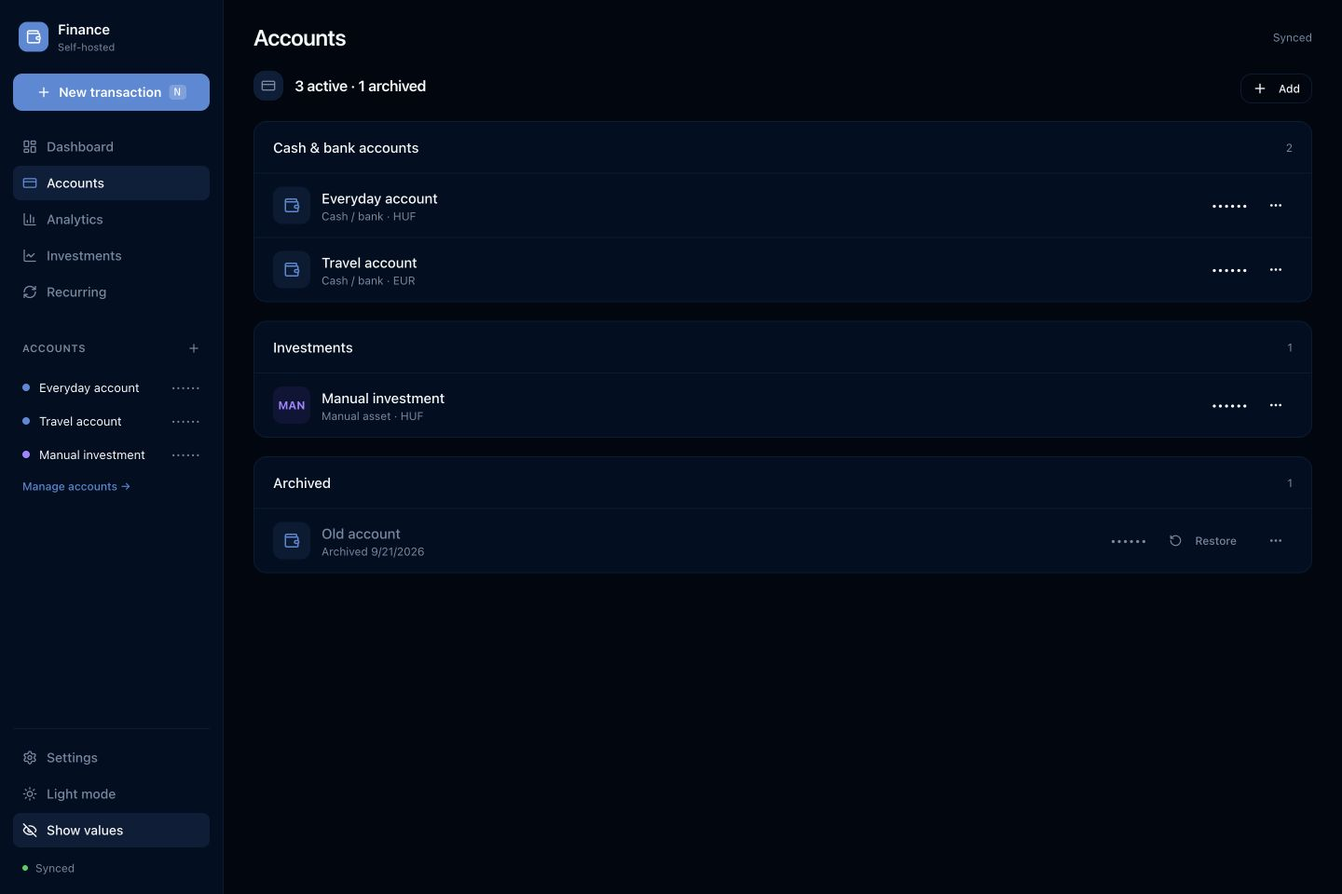
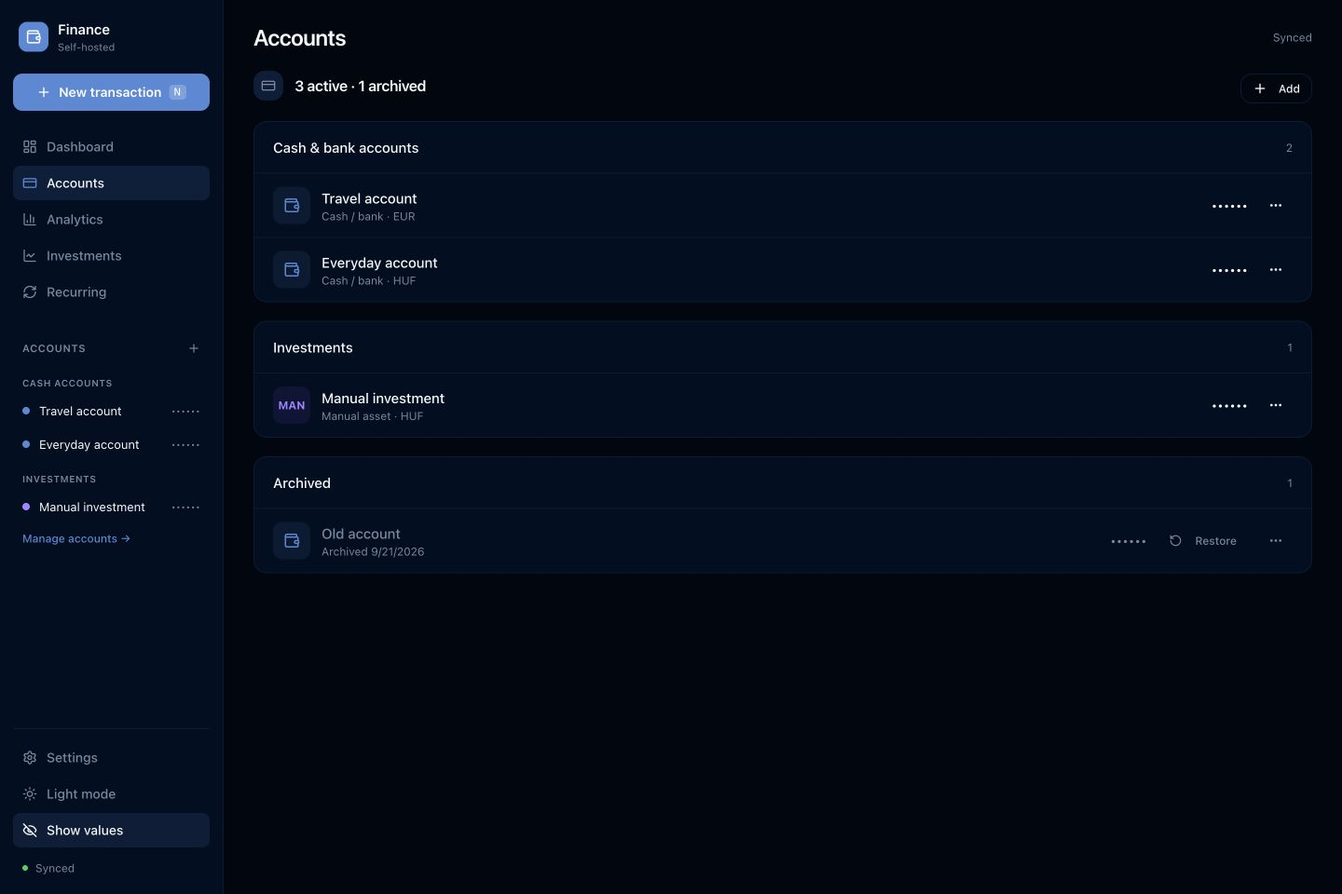
Sort account groups by converted value across manager and sidebar

Changed region(s): [[0.0, 0.4062, 0.0938, 0.625], [0.25, 0.2812, 0.3125, 0.3125], [0.25, 0.2188, 0.3125, 0.25]]

diff --git a/client/src/components/dashboard-module/AccountList.tsx b/client/src/components/dashboard-module/AccountList.tsx
@@ -1,5 +1,7 @@
 import { useUnsavedChanges } from '../../navigation/UnsavedChanges'
 import { convertCurrency, sumAvailable, validRates } from '../../../../shared/currency'
+import { accountValueForOrdering, sortAccountsByValue } from '../../lib/account-order'
+import type { AccountSortValues } from '../../lib/account-order'
 import { MissingExchangeRates } from '../common/MissingExchangeRates'
 import { useState, useEffect, useRef } from 'react'
 import { Button } from '../common/button'
@@ -57,8 +59,8 @@ type MarketQuote = {
   regularMarketChangePercent?: number
 }
 
-export function AccountList({ accounts, onAccountAdded, loading, manage = false, editAccountId, addRequest = false, requestKey = '' }: {
-  accounts: Account[]; onAccountAdded: () => void; loading?: boolean; manage?: boolean; editAccountId?: string; addRequest?: boolean; requestKey?: string
+export function AccountList({ accounts, onAccountAdded, loading, manage = false, editAccountId, addRequest = false, requestKey = '', sortValues }: {
+  accounts: Account[]; onAccountAdded: () => void; loading?: boolean; manage?: boolean; editAccountId?: string; addRequest?: boolean; requestKey?: string; sortValues?: AccountSortValues
 }) {
   const { confirm, showAlert } = useAlert()
   const isLocked = (id: string) => accounts.find(a => a.id === id)?.is_locked ?? false
@@ -175,18 +177,12 @@ export function AccountList({ accounts, onAccountAdded, loading, manage = false,
   }, [accounts])
 
   const missingCurrencies = new Set<string>()
-  const toUsd = (amount: number, currency: string) => {
-    const result = convertCurrency(amount, currency, 'USD', exchangeRates)
-    result.missingCurrencies.forEach(item => missingCurrencies.add(item))
-    return result.value
-  }
-  const accountValueUsd = (account: Account): number | null => {
-    if (account.type === 'cash' || account.asset_type === 'manual') return toUsd(account.balance, account.currency)
-    const quote = account.symbol ? quotes[account.symbol] : null
-    if (!quote || !Number.isFinite(quote.regularMarketPrice)) return null
-    return toUsd(account.balance * quote.regularMarketPrice!, account.quote_currency || quote.currency || 'USD')
-  }
-  const accountValues = Object.fromEntries(activeAccounts.map(account => [account.id, accountValueUsd(account)]))
+  const accountValues = Object.fromEntries(accounts.map(account => {
+    const conversion = accountValueForOrdering(account, quotes, 'USD', exchangeRates)
+    if (account.archived_at == null) conversion.missingCurrencies.forEach(currency => missingCurrencies.add(currency))
+    return [account.id, conversion.value]
+  }))
+  const orderingValues = sortValues ?? accountValues
   const totalCashUSD = sumAvailable(activeAccounts.filter(account => account.type === 'cash' &&
     !(account.exclude_from_cash_balance && account.exclude_from_net_worth)).map(account => accountValues[account.id]))
   const totalInvestmentUSD = sumAvailable(activeAccounts.filter(account => account.type === 'investment').map(account => accountValues[account.id]))
@@ -798,9 +794,7 @@ export function AccountList({ accounts, onAccountAdded, loading, manage = false,
               </div>
             </div>
             <div className="space-y-1.5 sm:space-y-2">
-              {activeAccounts.filter(a => a.type === 'cash').sort((a, b) =>
-                (accountValues[b.id] ?? -Infinity) - (accountValues[a.id] ?? -Infinity)
-              ).map(account => {
+              {sortAccountsByValue(activeAccounts.filter(a => a.type === 'cash'), orderingValues).map(account => {
                 const percentage = allocation(accountValues[account.id], totalCashUSD)
                 const isExcluded = account.exclude_from_cash_balance && account.exclude_from_net_worth
                 
@@ -961,9 +955,7 @@ export function AccountList({ accounts, onAccountAdded, loading, manage = false,
               </div>
             </div>
             <div className="space-y-1.5 sm:space-y-2">
-              {activeAccounts.filter(a => a.type === 'investment').sort((a, b) =>
-                (accountValues[b.id] ?? -Infinity) - (accountValues[a.id] ?? -Infinity)
-              ).map(account => {
+              {sortAccountsByValue(activeAccounts.filter(a => a.type === 'investment'), orderingValues).map(account => {
                 const percentage = allocation(accountValues[account.id], totalInvestmentUSD)
                 const quote = account.symbol ? quotes[account.symbol] : null
                 const priceChange = quote?.regularMarketChangePercent || 0
@@ -1235,10 +1227,11 @@ export function AccountList({ accounts, onAccountAdded, loading, manage = false,
       )}
 
       {manage && <div className="space-y-5">
+        {!loading && activeAccounts.some(account => orderingValues[account.id] == null) && <p className="text-xs text-muted-foreground">Accounts with unavailable converted values are listed last.</p>}
         {loading ? <p className="rounded-xl border border-border bg-card p-6 text-sm text-muted-foreground">Loading accounts…</p> : <>
           {!ratesLoading && <MissingExchangeRates currencies={[...missingCurrencies].sort()} targetCurrency="USD" onRetry={() => setRatesRefreshKey(key => key + 1)} retrying={ratesLoading} />}
           {(['cash', 'investment', 'archived'] as const).map(group => {
-            const rows = group === 'archived' ? archivedAccounts : activeAccounts.filter(account => account.type === group)
+            const rows = sortAccountsByValue(group === 'archived' ? archivedAccounts : activeAccounts.filter(account => account.type === group), orderingValues)
             return <section key={group} className="rounded-[14px] border border-border bg-card" aria-label={group === 'cash' ? 'Cash accounts' : group === 'investment' ? 'Investment accounts' : 'Archived accounts'}>
               <div className="flex items-center justify-between px-5 py-4"><h2 className="text-[15px] font-medium">{group === 'cash' ? 'Cash & bank accounts' : group === 'investment' ? 'Investments' : 'Archived'}</h2><span className="text-xs text-muted-foreground">{rows.length}</span></div>
               {rows.length === 0 && <p className="border-t border-border px-5 py-6 text-sm text-muted-foreground">{group === 'archived' ? 'No archived accounts. Archive keeps your history without deleting it.' : 'No accounts yet. Add an account to get started.'}</p>}

diff --git a/client/src/hooks/useFinanceData.ts b/client/src/hooks/useFinanceData.ts
@@ -1,5 +1,6 @@
 import { convertCurrency, sumConversions, validRates, isValidRate } from '../../../shared/currency'
 import type { ConversionResult } from '../../../shared/currency'
+import { accountValueForOrdering } from '../lib/account-order'
 import { useEffect, useState, useCallback } from 'react'
 import { API_BASE_URL, apiFetch } from '../config'
 import { useLoadableData } from './useLoadableData'
@@ -169,7 +170,7 @@ export function useFinanceData(
   const { data: upcomingTransactions, status: upcomingStatus, load: loadUpcoming } = useLoadableData<Transaction[]>([])
   const { data: categories, status: categoriesStatus, load: loadCategories } = useLoadableData<Category[]>([])
   const { data: netWorthResult, status: netWorthStatus, load: loadNetWorth } = useLoadableData<{ value: number | null; currency: string; missingCurrencies: string[] } | null>(null)
-  const { data: investmentResult, status: investmentStatus, load: loadInvestmentValue } = useLoadableData<{ conversion: ConversionResult; currency: string } | null>(null, false)
+  const { data: investmentResult, status: investmentStatus, load: loadInvestmentValue } = useLoadableData<{ conversion: ConversionResult; currency: string; quotes: Record<string, MarketQuote> } | null>(null, false)
   const { data: ratesResult, status: ratesStatus, load: loadRates } = useLoadableData<{ rates: Record<string, number>; currency: string }>({ rates: {}, currency: masterCurrency })
   const [investmentRefreshKey, setInvestmentRefreshKey] = useState(0)
 
@@ -197,7 +198,7 @@ export function useFinanceData(
     await loadInvestmentValue(async () => {
       const investmentAccounts = accounts.filter(a => a.type === 'investment' && a.archived_at == null)
       if (investmentAccounts.length === 0) {
-        return { conversion: sumConversions([]), currency: masterCurrency }
+        return { conversion: sumConversions([]), currency: masterCurrency, quotes: {} }
       }
 
       const symbolsToFetch = investmentAccounts
@@ -223,7 +224,7 @@ export function useFinanceData(
         const quoteCurrency = (acc.quote_currency || quote?.currency || 'USD').toUpperCase()
         return convertCurrency((quote?.regularMarketPrice || 0) * acc.balance, quoteCurrency, masterCurrency, rates)
       })
-      return { conversion: sumConversions(conversions), currency: masterCurrency }
+      return { conversion: sumConversions(conversions), currency: masterCurrency, quotes }
     })
   }, [accounts, masterCurrency, loadInvestmentValue])
 
@@ -232,7 +233,14 @@ export function useFinanceData(
     if (accountsStatus.loaded) void fetchInvestmentValue()
   }, [accountsStatus.loaded, fetchInvestmentValue])
 
+  const usableExchangeRates = !ratesStatus.error && ratesResult.currency === masterCurrency ? ratesResult.rates : {}
+  const usableQuotes = !investmentStatus.error && investmentResult?.currency === masterCurrency ? investmentResult.quotes : {}
+  const accountSortValues = Object.fromEntries(accounts.map(account => [account.id,
+    accountValueForOrdering(account, usableQuotes, masterCurrency, usableExchangeRates).value,
+  ]))
+
   return {
+    accountSortValues,
     netWorth: netWorthResult?.currency === masterCurrency ? netWorthResult.value : null,
     netWorthMissingCurrencies: netWorthResult?.currency === masterCurrency ? netWorthResult.missingCurrencies : [],
     investmentValue: investmentResult?.currency === masterCurrency ? investmentResult.conversion.value : null,
@@ -247,7 +255,7 @@ export function useFinanceData(
     allTransactionsLoading: historyStatus.loading,
     categories,
     exchangeRates: ratesResult.rates,
-    usableExchangeRates: !ratesStatus.error && ratesResult.currency === masterCurrency ? ratesResult.rates : {},
+    usableExchangeRates,
     exchangeRatesLoading: ratesStatus.loading,
     investmentRefreshKey,
     handleDataChange: fetchData,

diff --git a/client/src/lib/account-order.test.ts b/client/src/lib/account-order.test.ts
@@ -1,0 +1,49 @@
+import { describe, expect, it } from 'vitest'
+import { accountValueForOrdering, sortAccountsByValue } from './account-order'
+import type { ValuedAccount } from './account-order'
+
+const rates = { HUF: 1, EUR: 1 / 400, USD: 1 / 360 }
+const cash = (id: string, balance: number, currency = 'HUF'): ValuedAccount => ({ id, name: id, type: 'cash', balance, currency })
+
+describe('account value ordering', () => {
+  it('compares converted cash balances rather than raw foreign amounts and preserves input order', () => {
+    const accounts = [cash('HUF account', 30000), cash('EUR account', 100, 'EUR'), cash('USD account', 100, 'USD')]
+    const values = Object.fromEntries(accounts.map(account => [account.id, accountValueForOrdering(account, {}, 'HUF', rates).value]))
+    expect(sortAccountsByValue(accounts, values).map(account => account.id)).toEqual(['EUR account', 'USD account', 'HUF account'])
+    expect(accounts.map(account => account.id)).toEqual(['HUF account', 'EUR account', 'USD account'])
+  })
+
+  it('values stocks/crypto in their quote currency and manual assets in native currency', () => {
+    const accounts: ValuedAccount[] = [
+      { ...cash('Many units', 100, 'SHARE'), type: 'investment', asset_type: 'stock', symbol: 'LOW' },
+      { ...cash('Valuable holding', 2, 'SHARE'), type: 'investment', asset_type: 'stock', symbol: 'HIGH', quote_currency: 'EUR' },
+      { ...cash('Manual asset', 200, 'USD'), type: 'investment', asset_type: 'manual', symbol: 'IGNORED' },
+      { ...cash('Crypto', 0.01, 'BTC'), type: 'investment', asset_type: 'crypto', symbol: 'BTC-USD' },
+    ]
+    const quotes = { LOW: { regularMarketPrice: 1, currency: 'USD' }, HIGH: { regularMarketPrice: 200, currency: 'USD' }, 'BTC-USD': { regularMarketPrice: 10000, currency: 'USD' } }
+    const values = Object.fromEntries(accounts.map(account => [account.id, accountValueForOrdering(account, quotes, 'HUF', rates).value]))
+    expect(values).toEqual({ 'Many units': 36000, 'Valuable holding': 160000, 'Manual asset': 72000, Crypto: 36000 })
+    expect(sortAccountsByValue(accounts, values).map(account => account.id)).toEqual(['Valuable holding', 'Manual asset', 'Crypto', 'Many units'])
+  })
+
+  it('lists unavailable values last without inventing exchange rates or prices', () => {
+    const accounts: ValuedAccount[] = [cash('Foreign', 1000000, 'EUR'), cash('Debt', -100), cash('Zero', 0), { ...cash('No quote', 1000000, 'SHARE'), type: 'investment', symbol: 'MISSING' }]
+    const values = Object.fromEntries(accounts.map(account => [account.id, accountValueForOrdering(account, {}, 'HUF', {}).value]))
+    expect(values).toEqual({ Foreign: null, Debt: -100, Zero: 0, 'No quote': null })
+    expect(sortAccountsByValue(accounts, values).map(account => account.id)).toEqual(['Zero', 'Debt', 'Foreign', 'No quote'])
+    expect(accountValueForOrdering(accounts[0], {}, 'HUF', { EUR: 0 })).toMatchObject({ value: null, missingCurrencies: ['EUR'] })
+  })
+
+  it('uses stable name/id ties and treats invalid sort values as unavailable', () => {
+    const accounts = [{ id: 'b', name: 'Same' }, { id: 'a', name: 'Same' }, { id: 'bad', name: 'Bad' }]
+    expect(sortAccountsByValue(accounts, { a: 1, b: 1, bad: NaN }).map(account => account.id)).toEqual(['a', 'b', 'bad'])
+  })
+
+  it('recognizes empty market positions without quotes and rejects invalid nonzero prices', () => {
+    const account = { ...cash('Stock', 0, 'SHARE'), type: 'investment', symbol: 'TEST' }
+    expect(accountValueForOrdering(account, {}, 'HUF', {}).value).toBe(0)
+    for (const price of [0, -1, NaN, Infinity]) {
+      expect(accountValueForOrdering({ ...account, balance: 1 }, { TEST: { regularMarketPrice: price } }, 'HUF', rates).value).toBe(null)
+    }
+  })
+})

diff --git a/client/src/App.tsx b/client/src/App.tsx
@@ -9,6 +9,7 @@ import { Modal } from './components/common/modal'
 import { usePrivacy } from './context/PrivacyContext'
 import { useFinanceData } from './hooks/useFinanceData'
 import { FinanceDataStatus } from './components/common/FinanceDataStatus'
+import { sortAccountsByValue } from './lib/account-order'
 import { parseDashboardFilters } from './navigation/filters'
 
 export type FinancePageContext = { finance: ReturnType<typeof useFinanceData>; masterCurrency: string }
@@ -131,10 +132,18 @@ function App() {
           <span>Accounts</span><NavLink to="/accounts" state={{ addAccount: true }} aria-label="Add account" className="flex items-center"><Plus className="h-3.5 w-3.5" /></NavLink>
         </div>
         {!dataStatus.accounts.loaded && <p className="px-2.5 py-2 text-xs text-muted-foreground">{dataStatus.accounts.error ? 'Accounts unavailable' : 'Loading accounts…'}</p>}
-        {activeAccounts.map(account => <NavLink key={account.id} to="/accounts" state={{ editAccountId: account.id }} className="flex items-center gap-2.5 rounded-lg px-2.5 py-2 hover:bg-secondary">
-          <span className={`h-2 w-2 shrink-0 rounded-sm ${account.type === 'investment' ? 'bg-violet-400' : 'bg-primary'}`} />
-          <span className="min-w-0 flex-1 truncate text-[13px]">{account.name}</span><span className="max-w-[104px] truncate text-right text-[11px] tabular-nums text-muted-foreground">{nativeBalance(account)}</span>
-        </NavLink>)}
+        {(['cash', 'investment'] as const).map(type => {
+          const group = sortAccountsByValue(activeAccounts.filter(account => account.type === type), finance.accountSortValues)
+          if (!group.length) return null
+          return <section key={type} aria-label={type === 'cash' ? 'Cash account shortcuts' : 'Investment account shortcuts'} className="mt-3">
+            <h2 className="px-2.5 pb-1 text-[10px] font-semibold uppercase tracking-wider text-muted-foreground">{type === 'cash' ? 'Cash accounts' : 'Investments'}</h2>
+            {group.map(account => <NavLink key={account.id} to="/accounts" state={{ editAccountId: account.id }} className="flex items-center gap-2.5 rounded-lg px-2.5 py-2 hover:bg-secondary">
+              <span className={`h-2 w-2 shrink-0 rounded-sm ${type === 'investment' ? 'bg-violet-400' : 'bg-primary'}`} />
+              <span className="min-w-0 flex-1 truncate text-[13px]">{account.name}</span><span className="max-w-[104px] truncate text-right text-[11px] tabular-nums text-muted-foreground">{nativeBalance(account)}</span>
+            </NavLink>)}
+          </section>
+        })}
+        {activeAccounts.some(account => finance.accountSortValues[account.id] == null) && !dataStatus.exchangeRates.loading && !dataStatus.investment.loading && <p className="px-2.5 pt-2 text-[10px] text-muted-foreground">Unavailable values sort last.</p>}
         {dataStatus.accounts.loaded && activeAccounts.length === 0 && <p className="px-2.5 py-2 text-xs text-muted-foreground">No active accounts yet</p>}
         <NavLink to="/accounts" className="block px-2.5 py-2 text-xs font-medium text-primary">Manage accounts →</NavLink>
       </section>}

diff --git a/client/src/navigation/routes.test.tsx b/client/src/navigation/routes.test.tsx
@@ -1,4 +1,4 @@
-import { act, cleanup, fireEvent, render, screen, waitFor } from '@testing-library/react'
+import { act, cleanup, fireEvent, render, screen, waitFor, within } from '@testing-library/react'
 import { afterEach, beforeEach, describe, expect, it, vi } from 'vitest'
 import { createMemoryRouter, RouterProvider } from 'react-router'
 import { ThemeProvider } from '../context/ThemeContext'
@@ -257,4 +257,34 @@ it('supports Accounts deep links, trailing slash canonicalization and saved visi
   act(() => window.dispatchEvent(new Event('finance:menu-visibility')))
   await waitFor(() => expect(href(router)).toBe('/dashboard'))
   expect(screen.queryByRole('link', { name: 'Accounts', exact: true })).not.toBeInTheDocument()
+})
+
+it('groups sidebar cash/investments and sorts both by converted monetary value', async () => {
+  const baseFetch = fetchMock.getMockImplementation()!
+  fetchMock.mockImplementation(async (input, options) => {
+    const url = String(input)
+    const path = new URL(url, 'http://localhost').pathname.replace(/^\/api/, '')
+    if (path === '/accounts') return Response.json([
+      { id: 'huf', name: 'Local cash', type: 'cash', currency: 'HUF', balance: 30000, updated_at: 1 },
+      { id: 'eur', name: 'Euro cash', type: 'cash', currency: 'EUR', balance: 100, updated_at: 1 },
+      { id: 'many', name: 'Many units', type: 'investment', asset_type: 'stock', symbol: 'LOW', currency: 'SHARE', balance: 100, updated_at: 1 },
+      { id: 'valuable', name: 'Valuable holding', type: 'investment', asset_type: 'stock', symbol: 'HIGH', quote_currency: 'EUR', currency: 'SHARE', balance: 2, updated_at: 1 },
+      { id: 'archived', name: 'Archived cash', type: 'cash', currency: 'HUF', balance: 0, archived_at: 1, updated_at: 1 },
+    ])
+    if (path === '/v6/latest/HUF') return Response.json({ rates: { HUF: 1, EUR: 1 / 400, USD: 1 / 360 } })
+    if (path === '/investment-transactions') return Response.json([])
+    if (path === '/market/quote') return Response.json({ regularMarketPrice: url.includes('HIGH') ? 200 : 1, currency: 'USD' })
+    return baseFetch(input, options)
+  })
+  open('/dashboard')
+  const cashGroup = await screen.findByRole('region', { name: 'Cash account shortcuts' })
+  const investments = await screen.findByRole('region', { name: 'Investment account shortcuts' })
+  const order = (group: HTMLElement) => within(group).getAllByRole('link').map(link => link.textContent)
+  await waitFor(() => expect(order(cashGroup)[0]).toMatch(/^Euro cash/))
+  await waitFor(() => expect(order(investments)[0]).toMatch(/^Valuable holding/))
+  expect(order(cashGroup)[1]).toMatch(/^Local cash/)
+  expect(order(investments)[1]).toMatch(/^Many units/)
+  expect(cashGroup).toHaveTextContent('100 EUR')
+  expect(investments).toHaveTextContent('2 SHARE')
+  expect(screen.queryByRole('link', { name: /Archived cash/ })).not.toBeInTheDocument()
 })

diff --git a/client/src/components/dashboard-module/AccountList.manage.test.tsx b/client/src/components/dashboard-module/AccountList.manage.test.tsx
@@ -1,5 +1,5 @@
 import type { ComponentProps } from 'react'
-import { cleanup, fireEvent, render, screen, waitFor } from '@testing-library/react'
+import { cleanup, fireEvent, render, screen, waitFor, within } from '@testing-library/react'
 import { afterEach, beforeEach, describe, expect, it, vi } from 'vitest'
 import { AccountList } from './AccountList'
 
@@ -89,6 +89,33 @@ describe('dedicated account management', () => {
     const locked = screen.getByRole('button', { name: 'Edit Locked cash' })
     expect(locked).toBeDisabled()
     expect(locked).toHaveTextContent(/^Locked cashCash \/ bank · HUFExcluded from net worth$/)
+  })
+
+  it('orders management groups by converted value while displaying native balances', async () => {
+    fetchMock.mockImplementation(async input => String(input).includes('open.er-api')
+      ? Response.json({ rates: { USD: 1, HUF: 360, EUR: 0.9 } }) : Response.json([]))
+    render(<AccountList manage accounts={[
+      { id: 'huf', name: 'Local cash', type: 'cash', currency: 'HUF', balance: 30000 },
+      { id: 'eur', name: 'Euro cash', type: 'cash', currency: 'EUR', balance: 100 },
+      { id: 'manual-local', name: 'Local asset', type: 'investment', asset_type: 'manual', currency: 'HUF', balance: 30000 },
+      { id: 'manual-usd', name: 'Dollar asset', type: 'investment', asset_type: 'manual', currency: 'USD', balance: 100 },
+    ]} onAccountAdded={refresh} />)
+    const cashGroup = within(screen.getByRole('region', { name: 'Cash accounts' }))
+    const investmentGroup = within(screen.getByRole('region', { name: 'Investment accounts' }))
+    const editOrder = (group: typeof cashGroup) => group.getAllByRole('button', { name: /^Edit / }).map(button => button.getAttribute('aria-label'))
+    await waitFor(() => expect(editOrder(cashGroup)).toEqual(['Edit Euro cash', 'Edit Local cash']))
+    expect(editOrder(investmentGroup)).toEqual(['Edit Dollar asset', 'Edit Local asset'])
+    expect(cashGroup.getByText('€100,00')).toBeInTheDocument()
+    expect(cashGroup.getByText(/30\s000 Ft/)).toBeInTheDocument()
+  })
+
+  it('does not require an archived currency rate for active account totals', async () => {
+    render(<AccountList manage accounts={[
+      { id: 'cash', name: 'Active cash', type: 'cash', currency: 'HUF', balance: 12500 },
+      { id: 'archived-eur', name: 'Old euro account', type: 'cash', currency: 'EUR', balance: 0, archived_at: 1 },
+    ]} onAccountAdded={refresh} />)
+    await waitFor(() => expect(screen.queryByText('Accounts with unavailable converted values are listed last.')).not.toBeInTheDocument())
+    expect(screen.queryByRole('alert')).not.toBeInTheDocument()
   })
 
   it('masks native values and never makes an archived account editable', () => {

diff --git a/client/src/lib/account-order.ts b/client/src/lib/account-order.ts
@@ -1,0 +1,48 @@
+import { convertCurrency } from '../../../shared/currency'
+import type { ConversionResult } from '../../../shared/currency'
+
+export type ValuedAccount = {
+  id: string
+  name: string
+  type: string
+  balance: number
+  currency: string
+  quote_currency?: string
+  symbol?: string
+  asset_type?: string
+}
+
+export type AccountQuote = { regularMarketPrice?: number; currency?: string }
+export type AccountSortValues = Record<string, number | null | undefined>
+
+// Cash/manual assets hold native money; market holdings hold units priced in a
+// separate quote currency. Convert every sort key to the same reporting currency.
+export function accountValueForOrdering(
+  account: ValuedAccount, quotes: Record<string, AccountQuote>,
+  currency: string, rates: Record<string, number>, baseCurrency = currency,
+): ConversionResult {
+  if (account.type !== 'investment' || account.asset_type === 'manual') {
+    return convertCurrency(account.balance, account.currency, currency, rates, baseCurrency)
+  }
+  // An empty position is worth zero without requiring a market quote.
+  if (account.balance === 0) return { status: 'converted', value: 0, missingCurrencies: [] }
+  const quote = account.symbol ? quotes[account.symbol] : undefined
+  const price = quote?.regularMarketPrice
+  if (price === undefined || !Number.isFinite(price) || price <= 0) {
+    return { status: 'missing_rate', value: null, missingCurrencies: [] }
+  }
+  return convertCurrency(account.balance * price, account.quote_currency || quote?.currency || 'USD', currency, rates, baseCurrency)
+}
+
+export function sortAccountsByValue<T extends Pick<ValuedAccount, 'id' | 'name'>>(
+  accounts: readonly T[], values: AccountSortValues,
+): T[] {
+  return [...accounts].sort((left, right) => {
+    const leftValue = values[left.id], rightValue = values[right.id]
+    const leftKnown = typeof leftValue === 'number' && Number.isFinite(leftValue)
+    const rightKnown = typeof rightValue === 'number' && Number.isFinite(rightValue)
+    if (leftKnown && rightKnown && leftValue !== rightValue) return rightValue - leftValue
+    if (leftKnown !== rightKnown) return leftKnown ? -1 : 1
+    return left.name.localeCompare(right.name, undefined, { numeric: true, sensitivity: 'base' }) || left.id.localeCompare(right.id)
+  })
+}

diff --git a/client/src/pages/DashboardPage.tsx b/client/src/pages/DashboardPage.tsx
@@ -296,7 +296,7 @@ export function DashboardPage() {
                 <div className="lg:hidden">
                   <Link to="/accounts" className="mb-2 block text-right text-xs font-medium text-primary">Manage accounts →</Link>
                   <FinanceDataBoundary label="Accounts" datasets={accountData}>
-                    <AccountList accounts={accounts.filter(account => account.archived_at == null)} onAccountAdded={handleDataChange} loading={!dataStatus.accounts.loaded && dataStatus.accounts.loading} />
+                    <AccountList sortValues={finance.accountSortValues} accounts={accounts.filter(account => account.archived_at == null)} onAccountAdded={handleDataChange} loading={!dataStatus.accounts.loaded && dataStatus.accounts.loading} />
                   </FinanceDataBoundary>
                 </div>
               )}

diff --git a/client/src/pages/AccountsPage.tsx b/client/src/pages/AccountsPage.tsx
@@ -8,7 +8,7 @@ export function AccountsPage() {
   const { state, key } = useLocation()
   const request = state as { addAccount?: boolean; editAccountId?: string } | null
   return <FinanceDataBoundary label="Accounts" datasets={[{ label: 'Accounts', status: finance.dataStatus.accounts }]}>
-    <AccountList manage accounts={finance.accounts} onAccountAdded={finance.handleDataChange}
+    <AccountList manage sortValues={finance.accountSortValues} accounts={finance.accounts} onAccountAdded={finance.handleDataChange}
       loading={!finance.dataStatus.accounts.loaded && finance.dataStatus.accounts.loading}
       requestKey={key} addRequest={request?.addAccount} editAccountId={request?.editAccountId} />
   </FinanceDataBoundary>

diff --git a/docs/finance-redesign.md b/docs/finance-redesign.md
@@ -8,7 +8,7 @@ The user selected **Finance App.dc.html** from the **Finance Manager UI Redesign
 
 | Reference | Production implementation |
 | --- | --- |
-| 240px desktop sidebar, account shortcuts, New transaction | `App.tsx`; real account data, route links, global reusable transaction editor, N shortcut |
+| 240px desktop sidebar, account shortcuts, New transaction | `App.tsx`; real account data, separate Cash/Investments groups sorted by converted value, route links, global reusable transaction editor, N shortcut |
 | Mobile page heading, New transaction and More | Responsive shell; safe-area bottom navigation, accessible More sheet, saved menu visibility |
 | Dark/light surfaces and color themes | Shared CSS tokens and `ThemeContext`; independent `finance_color_mode` preference included in JSON export |
 | Dashboard summary and ledger/review rows | Existing Dashboard/TransactionList calculations and workflows; responsive summary grid and full-width desktop ledger |
@@ -22,6 +22,7 @@ No sample values, fake synchronization times, or prototype forecast curves are u
 
 ## Account lifecycle decisions
 
+- Account groups sort by descending monetary value in the reporting currency. Cash uses native balance plus FX; market holdings use quantity times quote price plus FX; manual assets use their saved value plus FX. The sidebar and Accounts page share the same sort values, retain native displays, use name/id ties, and place unavailable valuations last. Exclusions do not hide accounts from this ordering.
 - **Archive/Restore** is the terminology. Archive is independent of exclusions and locks.
 - Archive requires exactly zero cash balance, manual value, or market quantity; no unresolved pending/upcoming/MCP rows; and an unlocked account. No balancing transaction is manufactured.
 - `GET /accounts` retains archived accounts for history and the manager. Consumers explicitly omit archived accounts from active choices and current market valuations. Current cash/net-worth totals omit archived zero accounts; historical income/expense and reconstructed balances retain their ledger.
